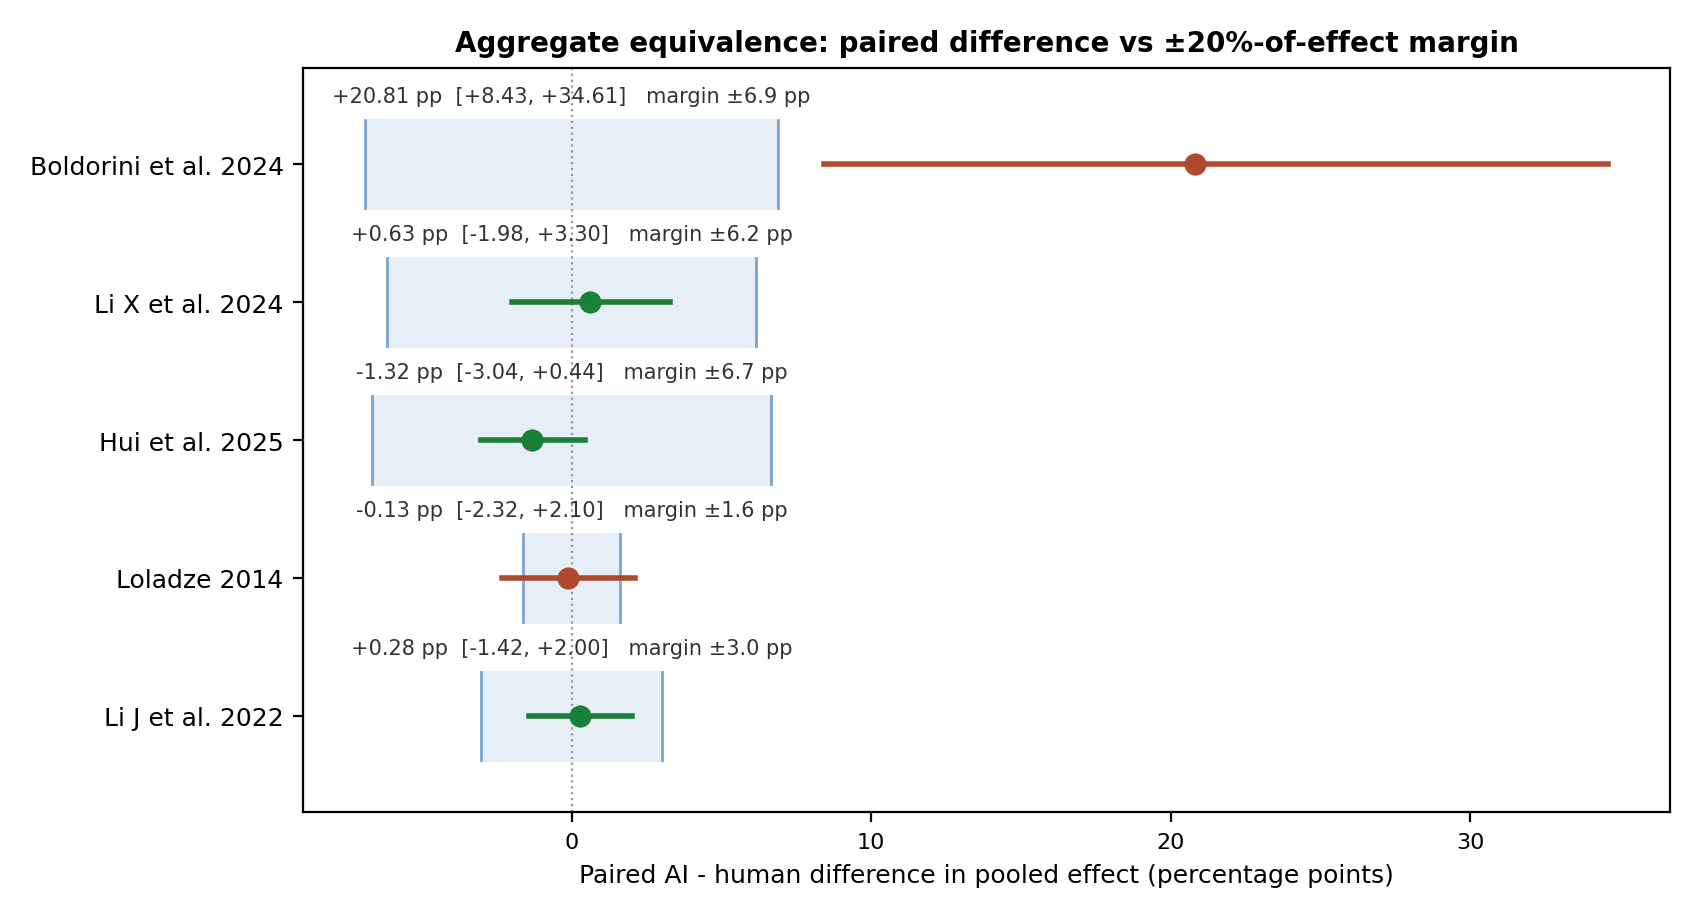
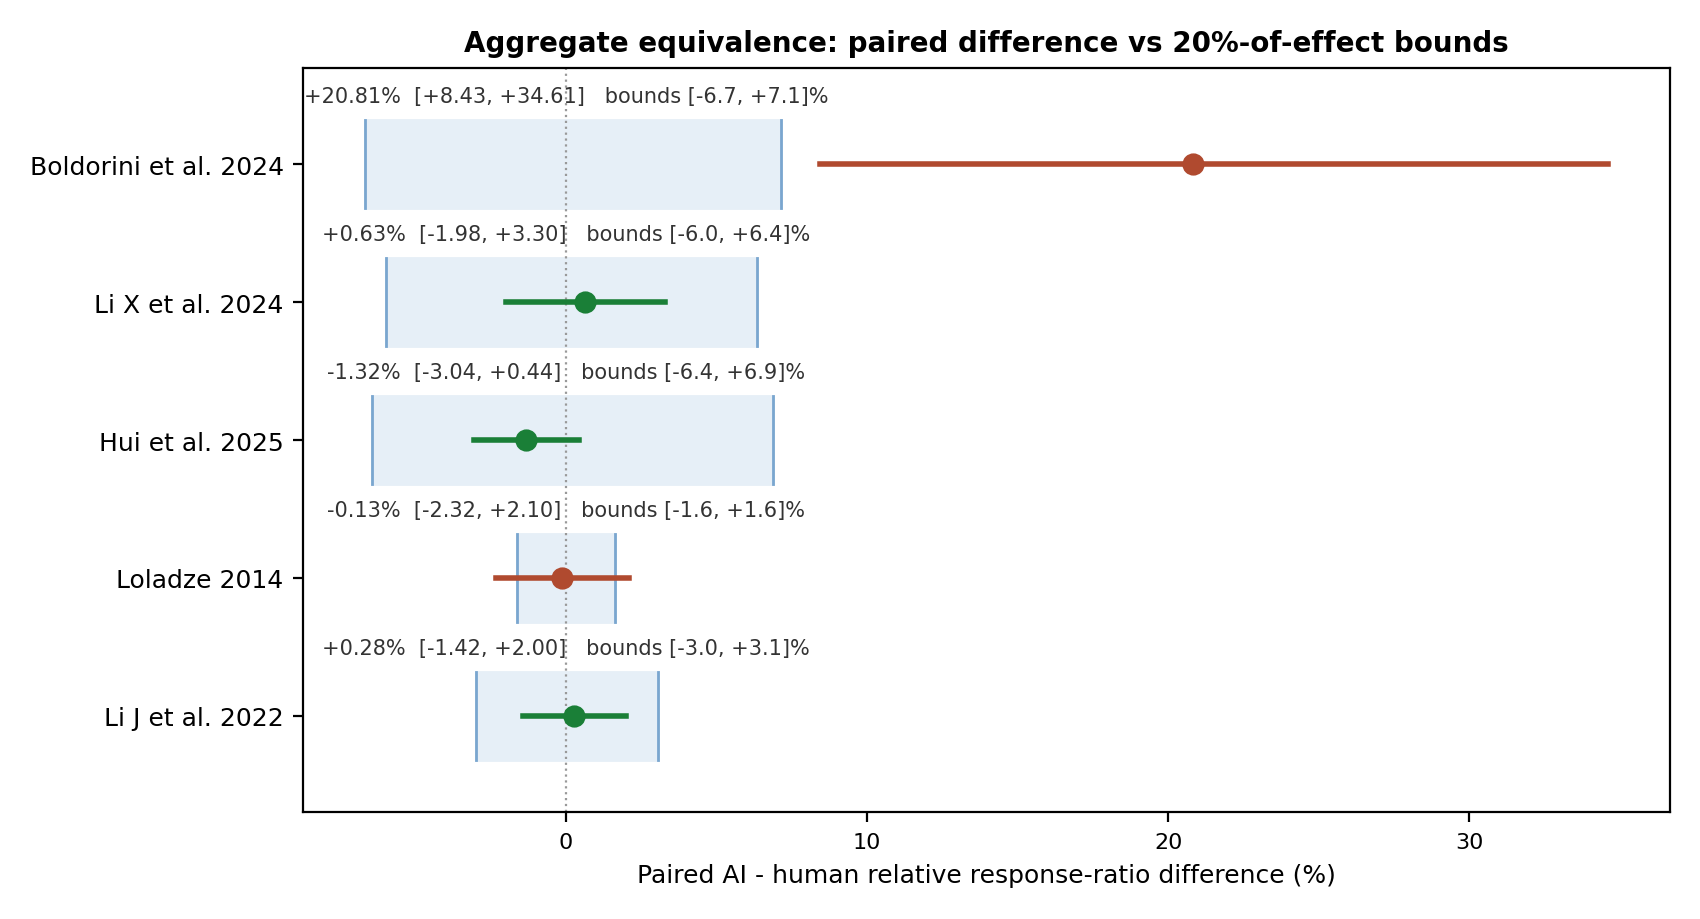
Correct equivalence display scale and audit consistency

diff --git a/make_fig2_equivalence.py b/make_fig2_equivalence.py
@@ -1,8 +1,8 @@
 #!/usr/bin/env python3
 """
-Figure 2 - equivalence forest. Per-dataset paired AI-minus-human difference in pooled
-effect (percentage points) with its 90% CI, plotted against the +-20%-of-effect
-equivalence margin. Datasets whose CI falls entirely inside the margin pass TOST at 20%.
+Figure 2 - equivalence forest. Per-dataset paired AI-minus-human relative response-ratio
+difference (%) with its 90% CI, plotted against the transformed 20%-of-effect equivalence
+bounds. TOST itself is evaluated on the lnRR scale.
 
 Reuses the paired scope-matched TOST machinery of scope_aware_paired_tost.py, so the
 plotted differences and CIs are exactly those in EXPECTED_OUTPUT_PAIRED_TOST.txt.
@@ -107,9 +107,8 @@ def compute(ds):
     margin=0.20*abs(gtp)
     inside = (plo>-margin and phi<margin)
     return dict(diff=pct(md), lo=pct(md-1.645*pse), hi=pct(md+1.645*pse),
-                margin=pct(gtp+margin)-pct(gtp), gtp=pct(gtp), ns=ns, inside=inside,
-                # symmetric margin in pp for plotting around 0
-                marg_pp=abs(gtp)*0.20*100)
+                margin_lo=pct(-margin), margin_hi=pct(margin), gtp=pct(gtp), ns=ns,
+                inside=inside)
 
 def main():
     order=["Boldorini","Biochar","Hui","Loladze","Li2022"]
@@ -118,28 +117,28 @@ def main():
     ys=list(range(len(order)))[::-1]
     for y, ds in zip(ys, order):
         R=res[ds]
-        m=R["marg_pp"]
-        # margin band
-        ax.add_patch(plt.Rectangle((-m, y-0.32), 2*m, 0.64, color="#e6eff7", zorder=0))
-        ax.plot([-m, -m], [y-0.32, y+0.32], color="#7aa6cf", lw=1, zorder=1)
-        ax.plot([ m,  m], [y-0.32, y+0.32], color="#7aa6cf", lw=1, zorder=1)
+        mlo, mhi=R["margin_lo"], R["margin_hi"]
+        # Transform the symmetric lnRR margin to its asymmetric response-ratio bounds.
+        ax.add_patch(plt.Rectangle((mlo, y-0.32), mhi-mlo, 0.64, color="#e6eff7", zorder=0))
+        ax.plot([mlo, mlo], [y-0.32, y+0.32], color="#7aa6cf", lw=1, zorder=1)
+        ax.plot([mhi, mhi], [y-0.32, y+0.32], color="#7aa6cf", lw=1, zorder=1)
         col = "#1a7f37" if R["inside"] else "#b04a2f"
         ax.plot([R["lo"], R["hi"]], [y, y], color=col, lw=2, zorder=3)
         ax.plot(R["diff"], y, "o", color=col, ms=7, zorder=4)
-        ax.text(0.0, y+0.42, f"{R['diff']:+.2f} pp  [{R['lo']:+.2f}, {R['hi']:+.2f}]   margin ±{m:.1f} pp",
+        ax.text(0.0, y+0.42, f"{R['diff']:+.2f}%  [{R['lo']:+.2f}, {R['hi']:+.2f}]   bounds [{mlo:+.1f}, {mhi:+.1f}]%",
                 ha="center", va="bottom", fontsize=7.5, color="#333333")
     ax.axvline(0, color="#999999", lw=0.8, ls=":")
     ax.set_yticks(ys); ax.set_yticklabels([DISPLAY[d] for d in order], fontsize=9)
-    ax.set_xlabel("Paired AI - human difference in pooled effect (percentage points)", fontsize=9)
+    ax.set_xlabel("Paired AI - human relative response-ratio difference (%)", fontsize=9)
     ax.set_ylim(-0.7, len(order)-0.3)
     ax.tick_params(axis="x", labelsize=8)
-    ax.set_title("Aggregate equivalence: paired difference vs ±20%-of-effect margin", fontsize=10, fontweight="bold")
+    ax.set_title("Aggregate equivalence: paired difference vs 20%-of-effect bounds", fontsize=10, fontweight="bold")
     fig.tight_layout()
     out=os.path.join(FIGS,"fig2_equivalence.png")
     fig.savefig(out, dpi=200)
     print("wrote", out)
     for ds in order:
-        R=res[ds]; print(f"  {DISPLAY[ds]:22} diff={R['diff']:+.2f} CI[{R['lo']:+.2f},{R['hi']:+.2f}] margin+-{R['marg_pp']:.2f} inside20%={R['inside']}")
+        R=res[ds]; print(f"  {DISPLAY[ds]:22} diff={R['diff']:+.2f}% CI[{R['lo']:+.2f},{R['hi']:+.2f}] bounds[{R['margin_lo']:+.2f},{R['margin_hi']:+.2f}]% inside20%={R['inside']}")
 
 if __name__ == "__main__":
     main()

diff --git a/scope_aware_aggregate_tost.py b/scope_aware_aggregate_tost.py
@@ -75,7 +75,7 @@ def scope_key(ds):
     if ds == "Boldorini":return lambda r:(npid(low(r,"paper_id")), low(r,"outcome_canonical"), low(r,"treatment_level"))
     return None   # Li2022 by remapped study below
 
-print(f"{'Dataset':22} {'AIn/GTn':>9} {'AI%':>7} {'GT%':>7} {'diff (90% CI)':>22}  TOST 5/10/15/20  in/out-scope AI rows")
+print(f"{'Dataset':22} {'AIn/GTn':>9} {'AI%':>7} {'GT%':>7} {'relative RR diff % (90% CI)':>27}  TOST 5/10/15/20  in/out-scope AI rows")
 print("-"*112)
 pct = lambda x: (math.exp(x)-1)*100
 for ds in ["Boldorini","Biochar","Hui","Loladze","Li2022"]:
@@ -125,4 +125,4 @@ for ds in ["Boldorini","Biochar","Hui","Loladze","Li2022"]:
     ladder = " ".join("P" if (plo > -m*abs(G["m"]) and phi < m*abs(G["m"])) else "." for m in (0.05,0.10,0.15,0.20))
     print(f"{DISPLAY[ds]:22} {A['n']:>4}/{G['n']:<4} {pct(A['m']):>6.1f}% {pct(G['m']):>6.1f}% {pct(diff):>+6.2f} [{pct(plo):>+5.2f},{pct(phi):>+5.2f}]   {ladder}   in={A['kept']} out={A['dropped']}")
 print("-"*112)
-print("Unpaired aggregate of EVERYTHING in scope (AI out-of-scope rows removed). P=90% CI of pooled diff within +-margin*|GT|.")
+print("Unpaired aggregate of EVERYTHING in scope (AI out-of-scope rows removed). Displayed differences are relative response-ratio differences; P=90% CI of the lnRR difference within +-margin*|GT|.")

diff --git a/biochar_native_control_tost.py b/biochar_native_control_tost.py
@@ -68,13 +68,13 @@ def lij_crosswalk(ai):
     return remap
 def keyfn(ds):
     # Boldorini: pool to (paper, crop, predator) — finer structural key over-splits its 16 studies.
-    if ds=="Boldorini": return lambda r:(npid(low(r,"paper_id")),low(r,"crop"),low(r,"treatment_level"))
+    if ds=="Boldorini": return lambda r:(npid(low(r,"paper_id")),low(r,"outcome_canonical"),low(r,"crop"),low(r,"treatment_level"))
     if ds=="Biochar": return lambda r:(npid(low(r,"paper_id")),low(r,"outcome_canonical"),low(r,"crop"),low(r,"treatment_level"),low(r,"co_amendment"),numtok(r,"co_amendment_level"),low(r,"timepoint"))
     if ds=="Hui":     return lambda r:(npid(low(r,"paper_id")),low(r,"outcome_canonical"),low(r,"treatment_level"))
     if ds=="Loladze": return lambda r:(npid(low(r,"paper_id")),low(r,"treatment_level"),low(r,"co_amendment"),low(r,"co_amendment_level"))
     return None
 pct=lambda x:(math.exp(x)-1)*100
-print(f"{'Dataset':22} {'cells':>5} {'studies':>7} {'AI%':>7} {'GT%':>7} {'paired diff (90% CI)':>22}  TOST 5/10/15/20")
+print(f"{'Dataset':22} {'cells':>5} {'studies':>7} {'AI%':>7} {'GT%':>7} {'relative RR diff % (90% CI)':>27}  TOST 5/10/15/20")
 print("-"*108)
 for ds in ["Boldorini","Biochar","Hui","Loladze","Li2022"]:
     excl={npid(p) for p in EXCLUDE.get(ds,set())}

diff --git a/scope_aware_paired_tost.py b/scope_aware_paired_tost.py
@@ -67,7 +67,7 @@ def keyfn(ds):
     if ds=="Loladze": return lambda r:(npid(low(r,"paper_id")),low(r,"treatment_level"),low(r,"co_amendment"),low(r,"co_amendment_level"))
     return None
 pct=lambda x:(math.exp(x)-1)*100
-print(f"{'Dataset':22} {'cells':>5} {'studies':>7} {'AI%':>7} {'GT%':>7} {'paired diff (90% CI)':>22}  TOST 5/10/15/20")
+print(f"{'Dataset':22} {'cells':>5} {'studies':>7} {'AI%':>7} {'GT%':>7} {'relative RR diff % (90% CI)':>27}  TOST 5/10/15/20")
 print("-"*108)
 for ds in ["Boldorini","Biochar","Hui","Loladze","Li2022"]:
     excl={npid(p) for p in EXCLUDE.get(ds,set())}

diff --git a/README.md b/README.md
@@ -32,10 +32,11 @@ contain copyrighted source text and account-provenance material.
 
 `decoders/` holds the script that builds each dataset's AI-side key table, one per dataset, with a
 ledger recording every decision it makes and its vocabulary comparison against the reference side.
-These are the per-dataset matching scripts the Methods refers to; the bridging each one performs is
-metadata-only and is documented row by row in its ledger. The raw model outputs needed to rerun a
-decoder are not redistributed; the deposited frozen key tables are the reproducible inputs to every
-reported analysis.
+These are the deposited AI-side decoding scripts. The published-reference side is supplied as frozen
+canonical key tables, rather than as rerunnable raw-label-to-key construction scripts. The final
+cross-dataset mappings can therefore be inspected row by row in the ledgers and key tables. The raw
+model outputs needed to rerun an AI-side decoder are not redistributed; the deposited frozen key
+tables are the reproducible inputs to every reported analysis.
 
 Two key fields were restored for Boldorini specifically, both documented in its ledger:
 `unit_canonical` in the raw-mean comparison, because its reference stores percentages, gram weights
@@ -114,10 +115,10 @@ describe the contents uniformly across datasets. For the biochar dataset they ho
 and co-applied amendment; for Loladze 2014 they hold the **element** (`treatment_level` = ca, fe,
 zn, n…), the plant **tissue** (`co_amendment` = grain, leaf…), and the **cultivar**
 (`co_amendment_level`); the other datasets pack their corresponding coordinates the same way. This
-does not affect the comparison: the identical decoder is applied to both the AI side and the published-reference side
-of each dataset, so the categorical key pairs like-for-like (element-to-element, dose-to-dose)
-regardless of the generic column label. The labels are slots; the pairing is on the values within
-matching slots.
+does not affect the comparison: the deposited AI-side decoder and frozen published-reference key
+table use the same canonical slot structure, so categorical pairing is like-for-like
+(element-to-element, dose-to-dose) regardless of the generic column label. The labels are slots;
+the pairing is on the values within matching slots.
 
 The directory name `gt` is retained as an internal file identifier from the original analysis;
 throughout the manuscript it denotes the published reference data and does not imply independently
@@ -135,8 +136,10 @@ verified ground truth.
   from which any reader can download the source material.
 - `decoders/` holds one AI-side decoder per dataset plus its ledger; these build the key
   tables in `runs/*/keys/ai/` from the extraction outputs.
+- `INCLUDED_SOURCE_PAPERS.md` is a candidate-input inventory, not an analytical inclusion ledger;
+  the analysed-paper counts and bibliographies are in Supplementary Material S6 and S8.
 - The round-1 `superseded_v1/` tree is not carried into this deposit; nothing in the
   current manuscript depends on it, and it remains in the original deposit for provenance.
 - `requirements.txt` lists dependencies (standard library for the core analyses; `matplotlib` for
-  figures; `numpy` and `pandas` for the round-2 variance and weighting checks).
+  figures; `numpy` and `pandas` for the optional coverage analysis).
 - `TESTED_ENVIRONMENT.md` records the exact software versions used for the final audit run.

diff --git a/INCLUDED_SOURCE_PAPERS.md b/INCLUDED_SOURCE_PAPERS.md
@@ -1,6 +1,6 @@
-# Included source papers, by dataset
+# Candidate input papers, by dataset
 
-The source papers the workflow extracted from, grouped by the five reference datasets. Each entry is the paper key (author and year). Papers excluded as mislabelled-PDF sourcing errors are marked. Source PDFs are not redistributed (publisher copyright).
+This is an inventory of candidate PDFs and records supplied during processing, grouped by the five reference datasets. It is not an analytical inclusion ledger: entries can be excluded as a sourcing error, be outside the final analytical scope, or fail to contribute an analysable record. The authoritative analysed-paper counts and bibliographies are in Supplementary Material S6 and S8: Boldorini 18, Biochar 27, Loladze 44, Hui 19, and Li J 43. Papers excluded as mislabelled-PDF sourcing errors are marked here. Source PDFs are not redistributed (publisher copyright).
 
 ## Boldorini et al. 2024 (predator biocontrol) — 18 papers
 
